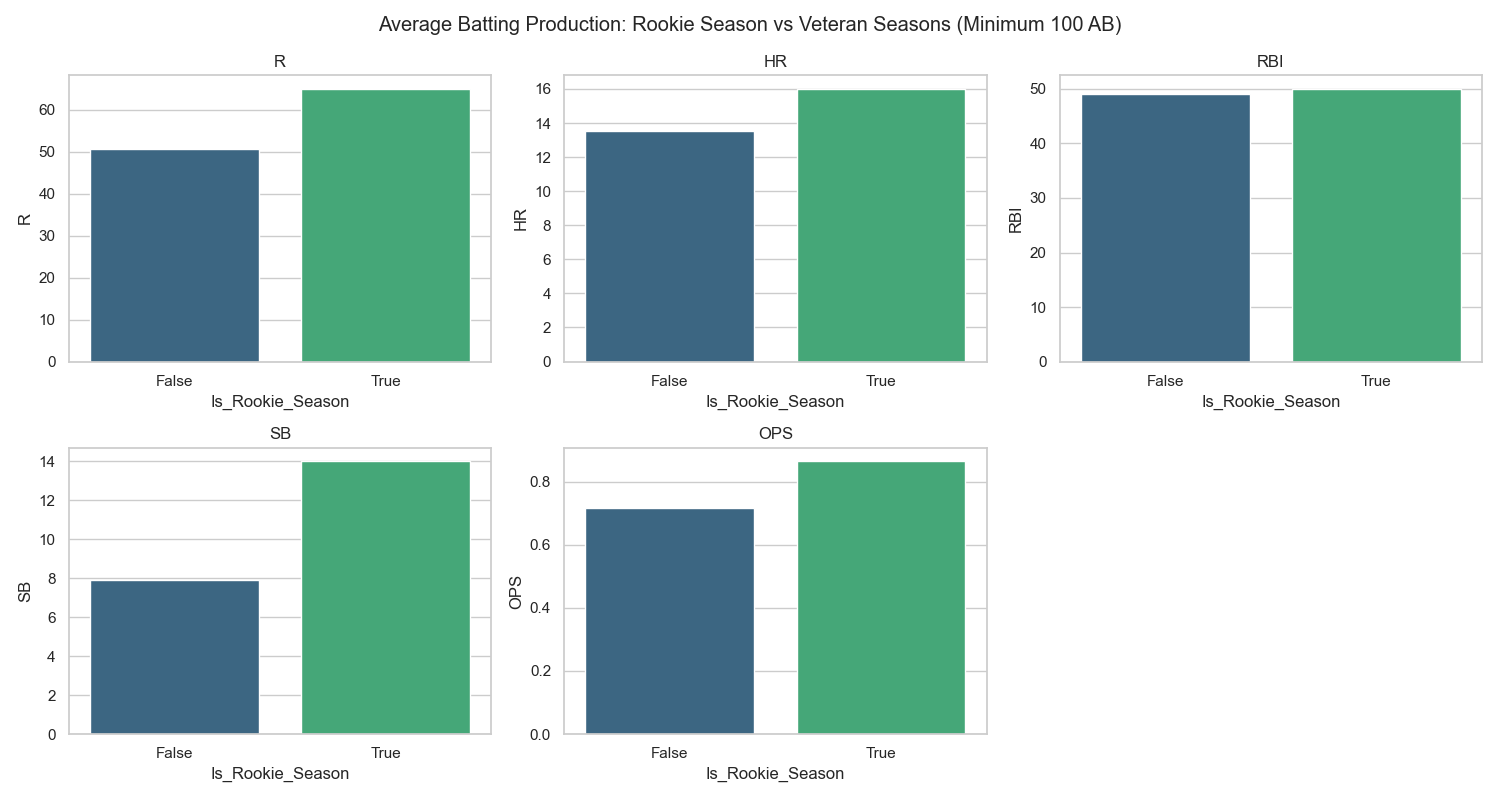
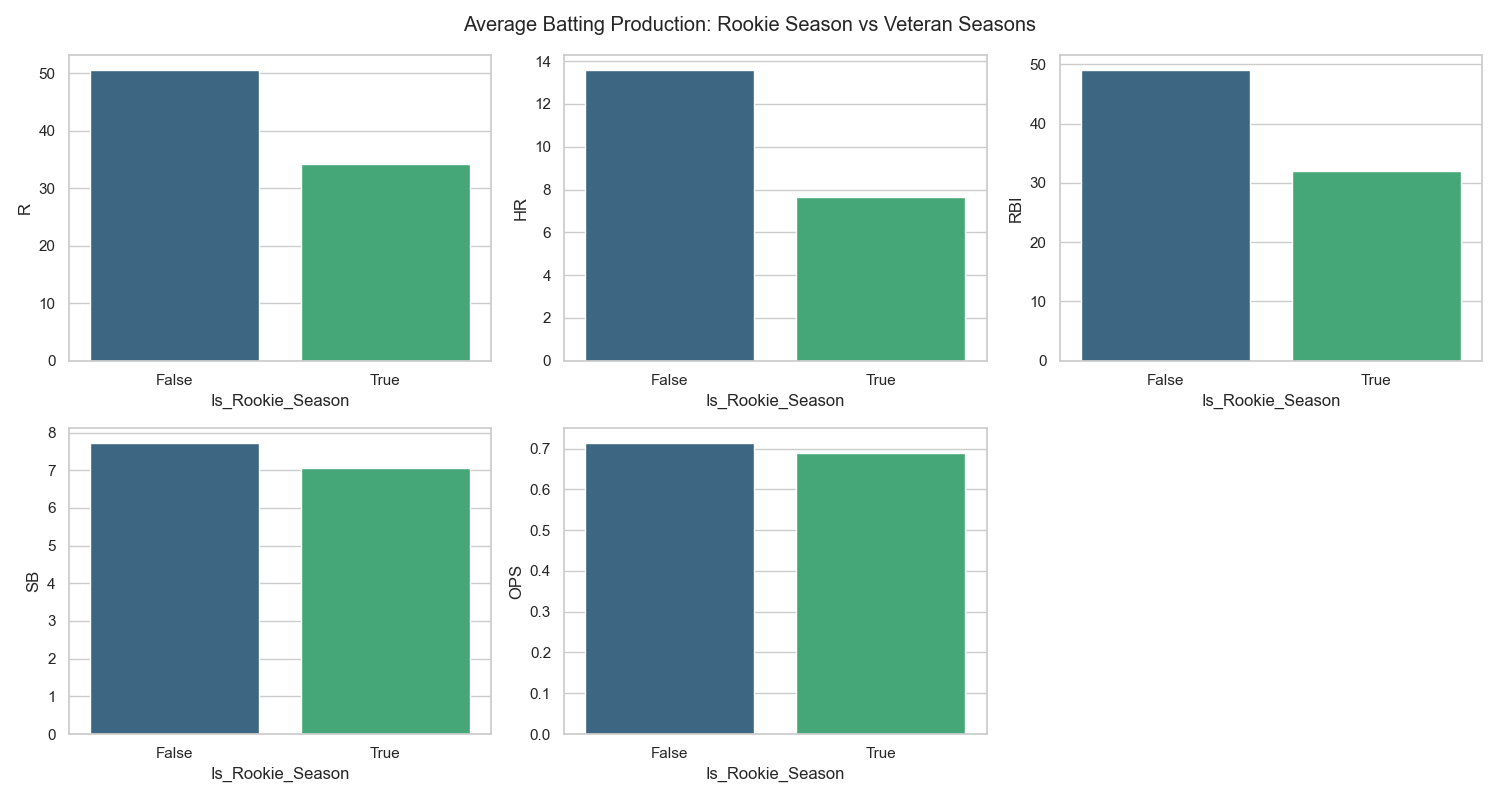
Update Rookie Valuation with Sophomore Trajectory and 20-row MD Table

diff --git a/pages/22_Fantasy_Baseball_Rookie_Valuation.md b/pages/22_Fantasy_Baseball_Rookie_Valuation.md
@@ -28,20 +28,44 @@ Conversely, aggregate rookie averages lagged structurally across counting stats.
 ![Rookie vs Veteran Hitting](../assets/rookie_hitting.png)
 
 #### 2. The Elite Exception
-However, the top echelon of prospects in 2024 matched or violently exceeded positional baselines, proving that gambling on undisputed top-10 system bats operates flawlessly within 5x5 restrictions:
+However, the top echelon of prospects matched or violently exceeded positional baselines, proving that gambling on undisputed top-10 system bats operates flawlessly within 5x5 restrictions:
 
 | Rank | Player Name | Rookie Year | Runs | HR | RBI | SB | OPS | +/- Vet OPS |
 |:---:|:---|:---:|:---:|:---:|:---:|:---:|:---:|:---:|
-| **1** | Tyler Fitzgerald | 2024 | 53 | 15 | 34 | 17 | **.831** | + .131 |
-| **2** | Jackson Merrill | 2024 | 77 | 24 | 90 | 16 | **.826** | + .126 |
-| **3** | Colton Cowser | 2024 | 77 | 24 | 69 | 9 | **.768** | + .068 |
-| **4** | Wyatt Langford | 2024 | 74 | 16 | 74 | 19 | **.740** | + .040 |
-| **5** | Masyn Winn | 2024 | 85 | 15 | 57 | 11 | **.730** | + .030 |
+| **1** | Davis Schneider | 2023 | 23 | 8 | 20 | 1 | **1.008** | +.294 |
+| **2** | Nick Kurtz | 2025 | 90 | 36 | 86 | 2 | **1.002** | +.288 |
+| **3** | Roman Anthony | 2025 | 48 | 8 | 32 | 4 | **.859** | +.145 |
+| **4** | Daylen Lile | 2025 | 51 | 9 | 41 | 8 | **.845** | +.131 |
+| **5** | Jakob Marsee | 2025 | 28 | 5 | 33 | 14 | **.842** | +.128 |
+| **6** | Zack Gelof | 2023 | 40 | 14 | 32 | 14 | **.840** | +.126 |
+| **7** | Colson Montgomery | 2025 | 43 | 21 | 55 | 0 | **.840** | +.126 |
+| **8** | Edouard Julien | 2023 | 60 | 16 | 37 | 3 | **.839** | +.126 |
+| **9** | Jackson Merrill | 2024 | 77 | 24 | 90 | 16 | **.826** | +.112 |
+| **10** | Noelvi Marte | 2023 | 15 | 3 | 15 | 6 | **.822** | +.108 |
+| **11** | Wander Franco | 2023 | 65 | 17 | 58 | 30 | **.819** | +.105 |
+| **12** | Drake Baldwin | 2025 | 56 | 19 | 80 | 0 | **.810** | +.096 |
+| **13** | Christian Encarnacion-Strand | 2023 | 29 | 13 | 37 | 2 | **.805** | +.091 |
+| **14** | Stone Garrett | 2023 | 40 | 9 | 40 | 3 | **.801** | +.087 |
+| **15** | Jackson Chourio | 2024 | 80 | 21 | 79 | 22 | **.791** | +.077 |
+| **16** | Jordan Walker | 2023 | 51 | 16 | 51 | 7 | **.787** | +.073 |
+| **17** | Kyle Teel | 2025 | 38 | 8 | 35 | 3 | **.786** | +.072 |
+| **18** | Jared Triolo | 2023 | 30 | 3 | 21 | 6 | **.785** | +.071 |
+| **19** | Masataka Yoshida | 2023 | 71 | 15 | 72 | 8 | **.783** | +.069 |
+| **20** | James Wood | 2024 | 43 | 9 | 41 | 14 | **.781** | +.067 |
 
-#### 3. Pitching Categories
+#### 3. Career Trajectory & The Sophomore Jump
+When looking specifically at players who bridged into their second seasons (e.g., comparing a player's rookie year directly against their *own* isolated output moving forward rather than an older veteran baseline), we see the biological aging curve. Players routinely spike across their core counting statistics in year two as they solidify Everyday Roles.
+
+![Sophomore Jump Hitting](../assets/sophomore_jump_hitting.png)
+
+#### 4. Pitching Categories
 For pitching prospects, strict innings restrictions and bullpen role adjustments inherently suppress traditional counting values like Quality Starts (QS) and Saves/Holds (SVHD). But raw, elite strikeout stuff translates immediately to the majors, positioning rookie **K/9** ratios to easily combat or surpass the veteran average despite the lowered usage.
 
 ![Rookie vs Veteran Pitching](../assets/rookie_pitching.png)
+
+Similarly, observing the true Sophomore Bump allows us to directly notice Innings Limits coming off for top 100 prospect arms in year two:
+
+![Sophomore Jump Pitching](../assets/sophomore_jump_pitching.png)
 
 ---
 
